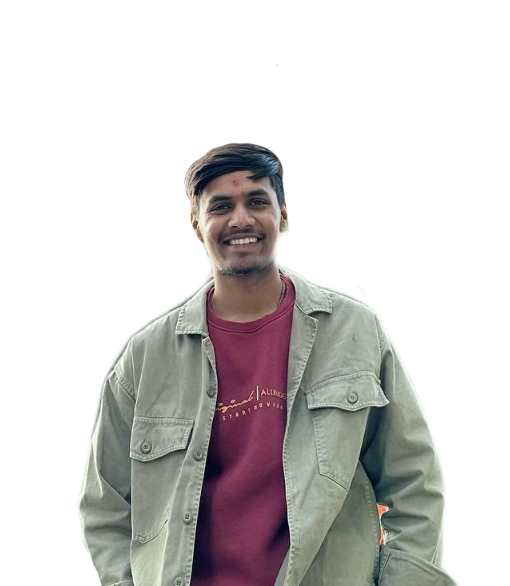
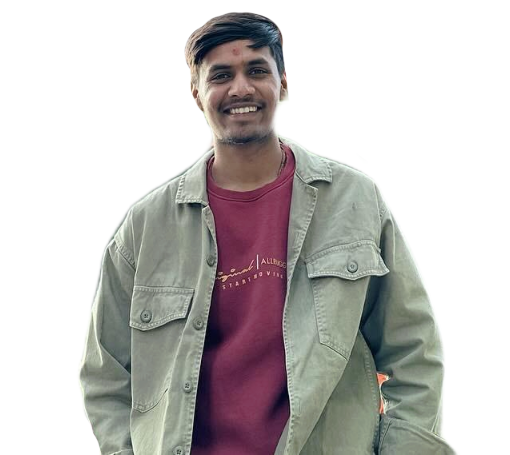
updated

Changed region(s): [[0.1471, 0.0, 0.8824, 1.0], [0.4412, 0.9231, 0.4706, 0.9538]]

diff --git a/src/Components/Header/header.css b/src/Components/Header/header.css
@@ -1,16 +1,10 @@
 header {
-  height: 140vh;
+  height: 90vh;
   padding-top: 4rem;
   overflow: hidden;
-}
-
-.header_container {
   text-align: center;
-  height: 100%;
   position: relative;
 }
-
-/* ------------------ CTA ------------------ */
 
 .cta {
   margin-top: 2.5rem;
@@ -19,40 +13,29 @@ header {
   justify-content: center;
 }
 
-/* ------------------ HEADER SOCIALS ------------------ */
 .header_socials {
   display: flex;
   flex-direction: row;
   align-items: center;
   gap: 0.8rem;
   position: absolute;
-  left: 0;
+  left: 50%;
+  transform: translateX(-50%);
   bottom: 3rem;
 }
-
-/* 
-.header_socials::after {
-  content: "";
-  width: 1px;
-  height: 2rem;
-  background: var(--color-primary);
-} */
-
-/* ------------------ ME ------------------ */
 
 .me {
   background: linear-gradient(var(--color-primary), transparent);
   width: 22rem;
-  height: 30rem;
+  height: 25rem;
   position: absolute;
-  left: calc(50% - 11rem);
+  left: 50%;
+  transform: translateX(-50%);
   margin-top: 4rem;
   border-radius: 12rem 12rem 0 0;
   overflow: hidden;
   padding: 5rem 1.5rem 1.5rem 1.5rem;
 }
-
-/* ------------------ SCROLL DOWN ------------------ */
 
 .scroll_down {
   position: absolute;
@@ -62,28 +45,38 @@ header {
   font-size: 2rem;
 }
 
-/*  ------------------ MEDIA QUERIES (MEDIUM DEVICES) ------------------  */
-
 @media screen and (max-width: 1024px) {
   header {
     height: 68vh;
   }
+
+  .me {
+    width: 90vw;
+    height: 20vh;
+    /* margin-top: 10vh; */
+    padding: 5vh 1.5rem 1.5rem 1.5rem;
+  }
 }
 
-/*  ------------------ MEDIA QUERIES (SMALL DEVICES) ------------------  */
+@media screen and (max-width: 480px) {
+  header {
+    height: 83vh;
+  }
 
-.header_socials {
-  margin-top: 0;
-  width: 300px;
-  display: flex;
-  flex-direction: row;
-  align-items: center;
-  justify-content: space-evenly;
-  position: absolute;
-  left: 50%;
-  transform: translateX(-50%);
+  .header_socials {
+    bottom: 0vh;
+  }
+
+  .me {
+    height: 40vh;
+    margin-top: 10vh;
+    padding: 5vh 1.5rem 1.5rem 1.5rem;
+  }
 }
 
 .header_socials a {
-  font-size: 2.5em;
+  font-size: 2rem;
+  height: 2rem;
+  line-height: 2rem;
+  width: 50px
 }
